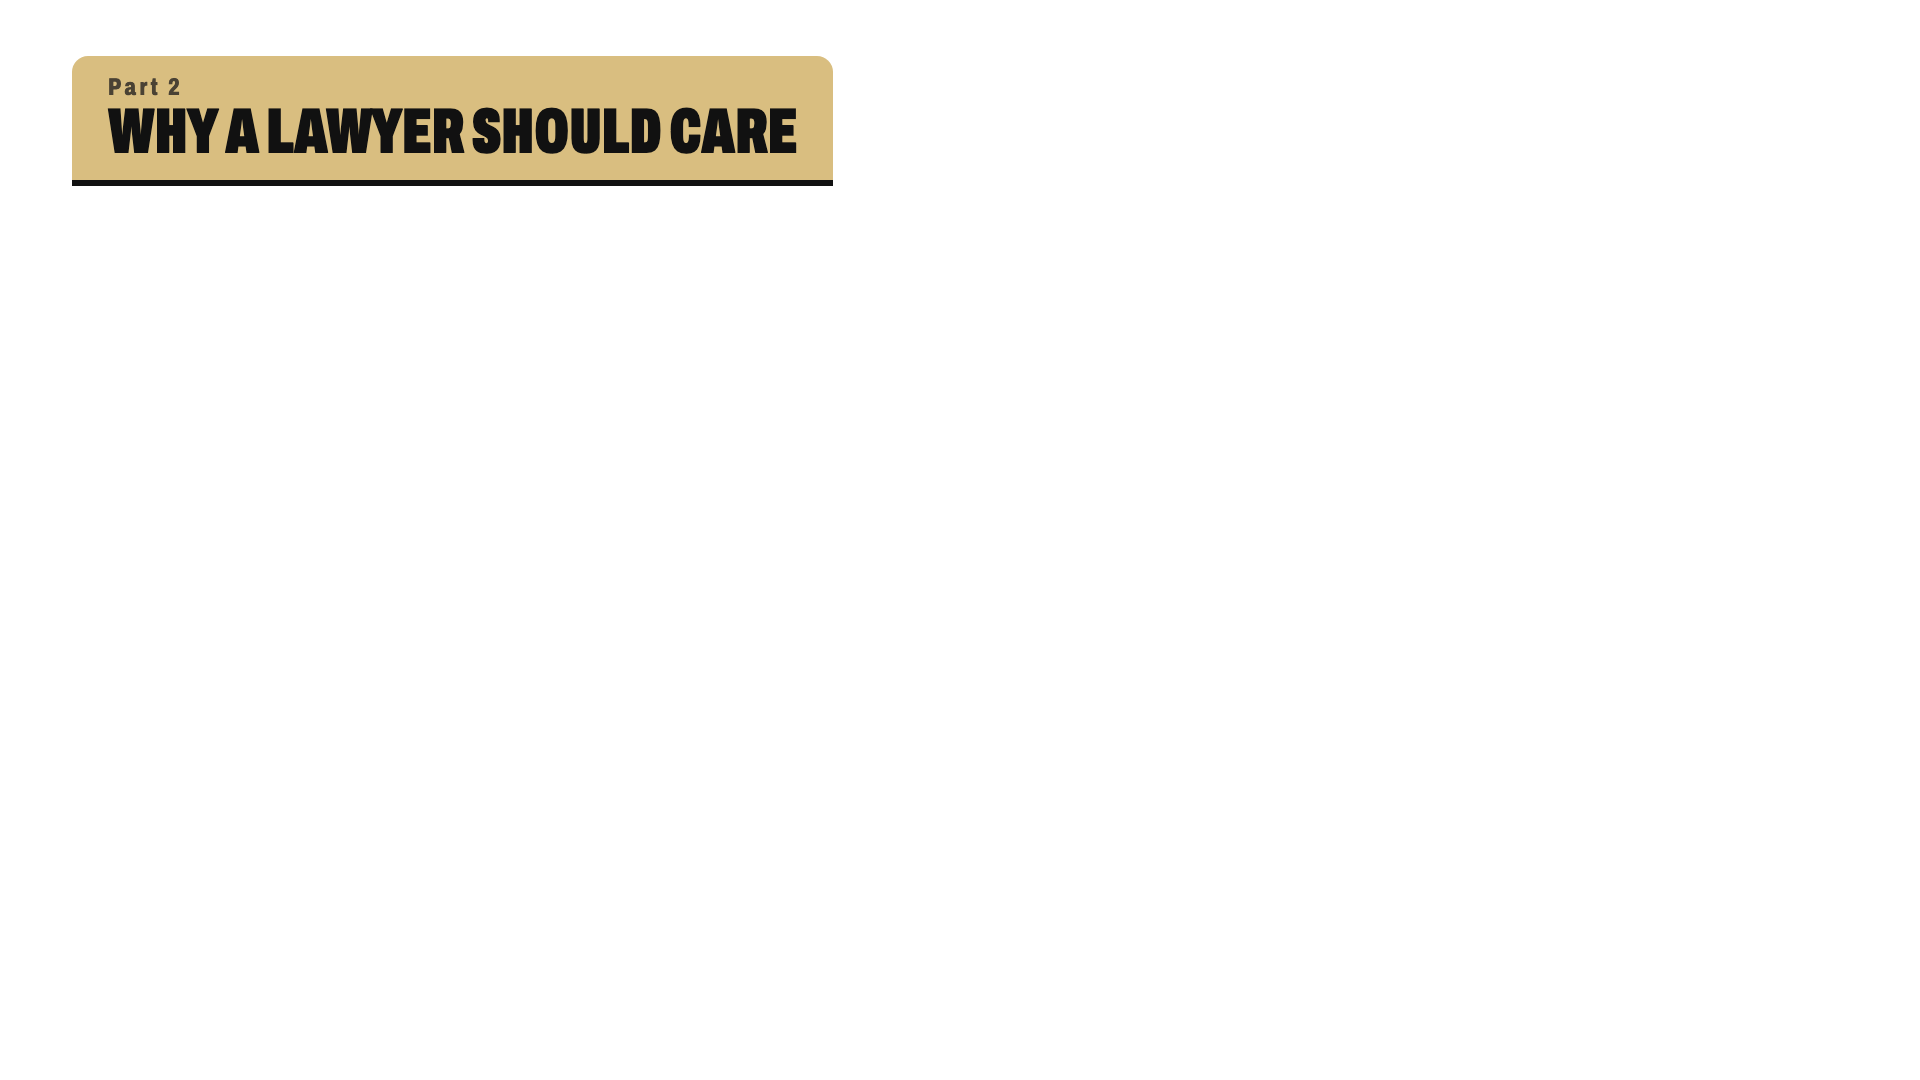
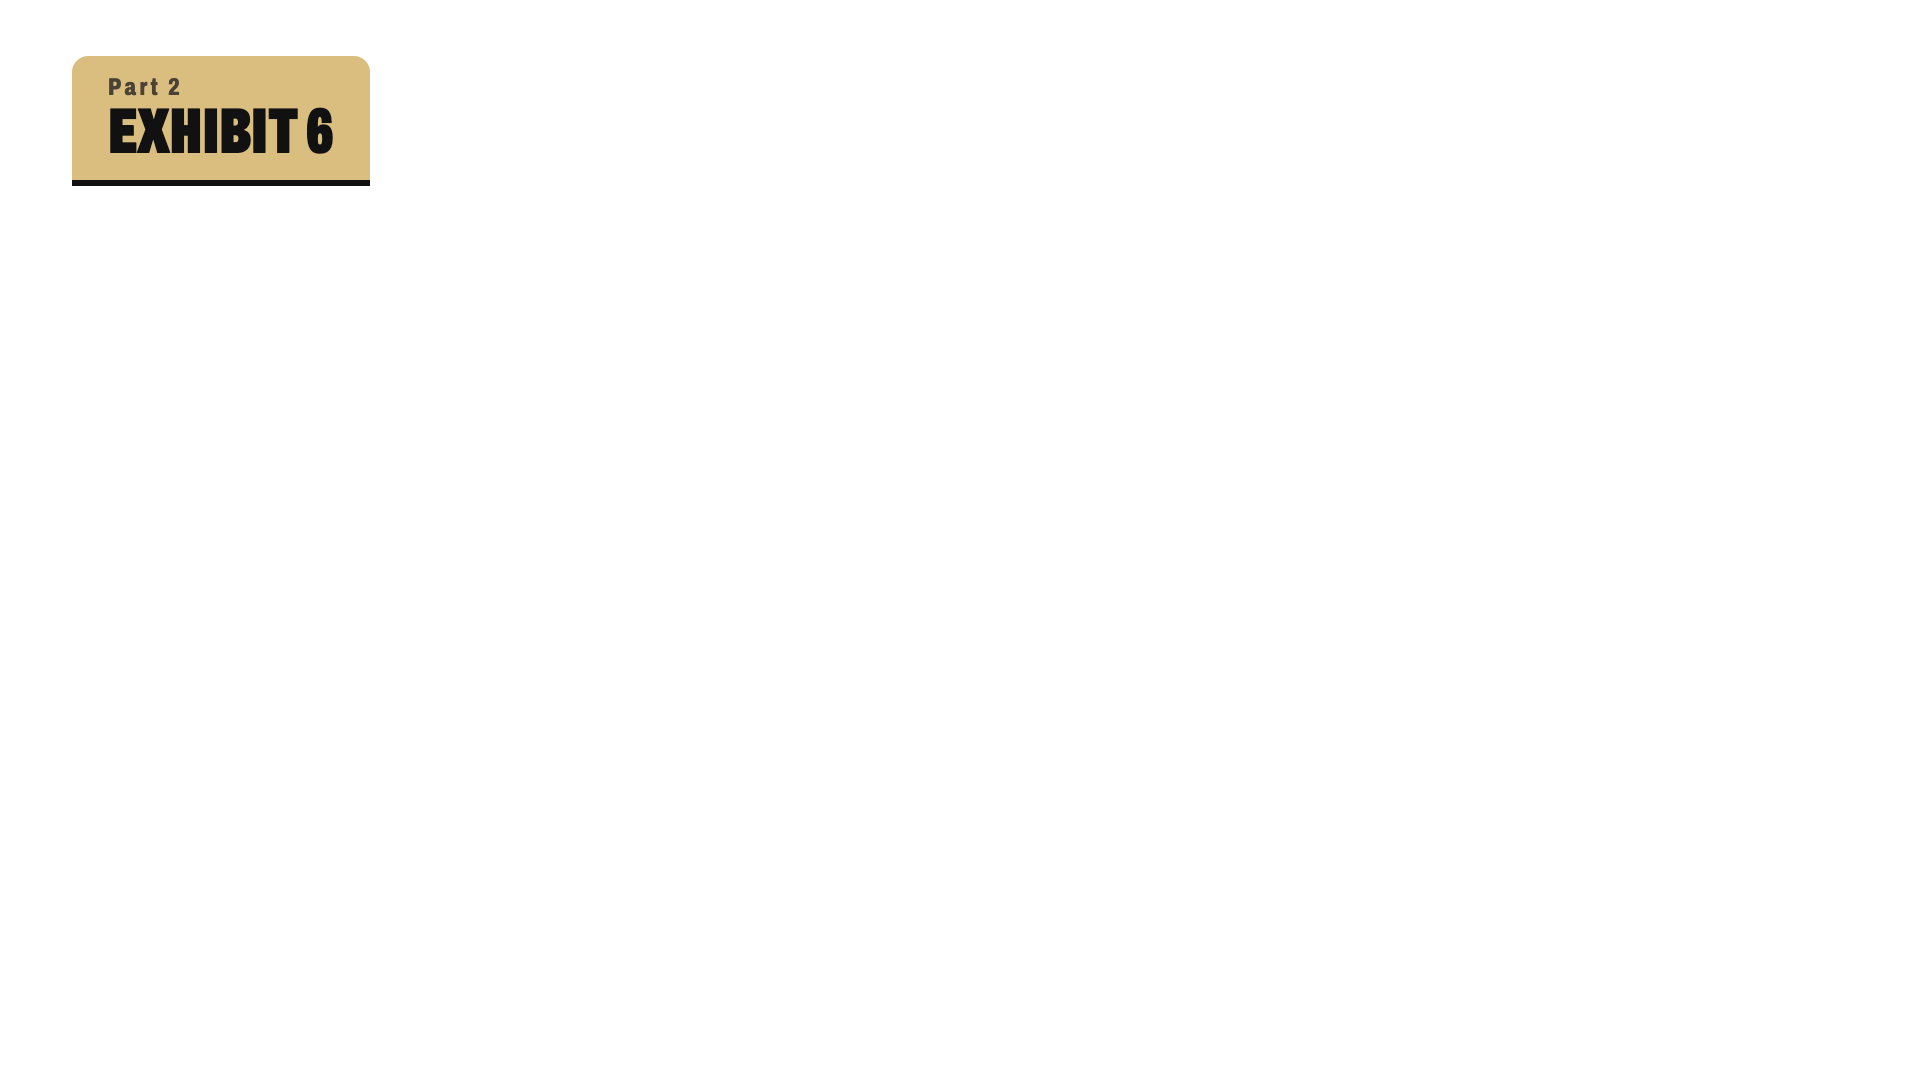
Video: a 3:30 script and shot list with the record of reliance as the hero; six section tabs and the captions rendered

Changed region(s): [[0.0625, 0.0306, 0.4375, 0.1833]]

diff --git a/docs/bli/DEMO_SCRIPT.md b/docs/bli/DEMO_SCRIPT.md
@@ -1,173 +1,76 @@
-# Vouch, BLI demo script (2:30)
+# Vouch, the BLI video: script and shot list
 
-Hard ceiling 3:00; aim for 2:30. **The payoff is on screen by 0:20**: an AI's
-wrong claim, slashed by the check, and a trading agent refused, on-chain.
-Then why lawyers should care, then the Chainlink CRE workflow, then the journal.
+**Length: 3:30** (hard ceiling 5:00). **The hero is the record of reliance**: the
+one page a compliance officer or counsel keeps. The video opens on it, takes it
+apart, and closes on it. Everything on screen is in the Exhibit design
+(design/DESIGN.md).
 
-**Film round A.** Round B is a fallback only if the testnet round cannot run
-by 22 Oct: it does not meet the Chainlink bounty's minimum and reads as
-unfinished. **Which round you film decides two captions.** Everything said aloud below is
-true for both; the captions say which one is on screen.
+**Record after `bash scripts/after_login.sh` and `bash scripts/deploy_web.sh --go`**, so the
+live page shows the testnet round settled by the CRE workflow. If the round
+cannot be settled by 22 Oct, record the same shots from the local round
+(`?feed=feed-local.json`) and use the SDK caption instead of the simulation one
+(see "Captions").
 
-| | Round **A** (after `cre login` and `scripts/cre_round.sh`) | Round **B** (fallback, works today) |
-|---|---|---|
-| Feed | `https://vouch-feed.vercel.app/?journal` after `vercel deploy --prod` | `web/` served locally (`python3 -m http.server -d web 8000`), `http://localhost:8000/?feed=feed-local.json&journal` |
-| Caption, whole video | "Robinhood Chain testnet · Chainlink CRE CLI simulation" | "Local devnet · the CRE workflow's code in Chainlink's SDK test runtime" |
-| 0:45 terminal | `cre/runs/<run>/claim-<id>.log` (the `[USER LOG]` lines) | `bash scripts/sdk_round.sh` output, then `cre workflow build` (the WASM hash) |
-| 0:45 caption | **SIMULATION** | **SDK TEST RUNTIME, NOT A CRE SIMULATION** |
-| The AI's claim | written live by Qwen if the preflight dry run reproduced it; otherwise re-posted from 24 Sep (the page labels it "replayed") | re-posted from 24 Sep, labelled "replayed" |
+## Before recording
 
-**Video assets** (all 1920x1080, from `bash scripts/build_assets.sh`, in
-`docs/assets/video/`): `title.png` (open on it for one second), `end.png`,
-`lower-founder.png` (over the face bubble), `section-1.png` to `section-5.png`
-(a folder tab naming each part, top left, while it runs), and the caption
-labels `caption-simulation.png`, `caption-replayed.png`, `caption-sdk.png`
-(top right, for as long as that footage is on screen). The overlays are
-transparent PNGs. For one claim alone on screen use `?claim=<id>&view=claim`.
+- 1920x1080, browser full screen at 100% zoom, light theme, no bookmarks bar.
+- Tabs, in order:
+  - **A** `https://vouch-feed.vercel.app/?record=TSLA` (the record of reliance)
+  - **B** `/?claim=<hero id>&view=claim` (the AI's wrong-quarter claim; its id is in docs/bli/TESTNET_ROUND.md)
+  - **C** `docs/deck/bli.html` slide 3, or docs/bli/LEGAL.md section 2 on GitHub
+  - **D** a terminal showing `cre/runs/<run>/claim-<hero id>.log` (the `[USER LOG]` lines), and **E** the explorer tab of the hero's verdict transaction
+  - **F** `/?view=journal` (the agent's case files)
+  - **G** `/?feed=feed-kol-real.json&view=journal` (the news checker on real posts)
+- Your face in a small round corner bubble, bottom left, for the first 10 and last 10 seconds.
+- One voice, unhurried. Pause half a second on every stamp.
 
-**Before recording**
+## Overlays (all in `docs/assets/video/`, 1920x1080, from `bash scripts/build_assets.sh`)
 
-- Round A: `bash scripts/cre_round.sh --preflight`, then `bash scripts/cre_round.sh`,
-  then publish (`cd web && vercel deploy --prod`). Round B: `bash scripts/sdk_round.sh`.
-- Have three tabs ready: **A** the feed above with `?journal`, **B** (round A
-  only) the explorer tab of the lead claim's verdict transaction, **C**
-  `docs/bli/LEGAL.md` on GitHub, scrolled to section 6.
-- A terminal with the 0:45 output from the table.
-- 1920x1080, browser full screen. **Your face in a small corner bubble for the
-  first 10 seconds and the last 10** (a real person on camera). One voice, unhurried.
+| File | Use |
+|---|---|
+| `title.png` | the first second, full screen |
+| `section-1.png` to `section-6.png` | transparent; a folder tab naming the part, top left, for its first 3 seconds |
+| `lower-founder.png` | transparent; over the face bubble, 0:01 to 0:06 |
+| `caption-simulation.png` | transparent; top right, whenever testnet CRE output is on screen |
+| `caption-replayed.png` | transparent; top right, whenever the AI's claim is on screen |
+| `caption-sdk.png` | transparent; replaces the simulation caption if you record the local round |
+| `end.png` | the last 4 seconds, full screen |
 
----
+## Shot list and script
 
-## 0:00 to 0:20, the payoff first
+| # | Time | Screen | Overlay | Action | Say |
+|---|---|---|---|---|---|
+| 1 | 0:00 | `title.png` | | hold 1 s | (nothing) |
+| 2 | 0:01 | Tab A, top of the page | section-1, lower-founder, face bubble | slow scroll to "Exhibits refused" | "This is a record of reliance. An AI trading agent read ten claims about Tesla's quarterly report and wanted to trade on all of them. This page shows the three it was allowed to rely on, the seven it was refused, and why." |
+| 3 | 0:20 | Tab A, "Exhibits refused", exhibit 6 row | caption-replayed | point at the red ring and the SLASHED stamp | "Exhibit six. An AI analyst wrote that Tesla's depreciation for Q3 was 1.37 billion dollars." |
+| 4 | 0:30 | Tab B, the claim record | section-2, caption-replayed | point: statement, then the yellow sentence, then the third finding, then the stamp | "Here is the sentence it cited, from Tesla's own 10-Q. The figure is right. The quarter is not: that sentence covers the three months ended June 30. Ringed in red, the words it got wrong. The check slashed it, and its stake went to the readers' fund." |
+| 5 | 0:55 | Tab B, scroll to the chain of custody | | point down the table | "And this is every hand the claim passed through: posted, checked against the filing from SEC EDGAR, slashed, and refused when the agent tried to rely on it." |
+| 6 | 1:10 | Tab C, the four rules | section-3 | point at Reg AC, then 2241 | "Why this matters to lawyers. Regulation AC has a natural person certify the views in research. FINRA Rule 2241 requires that the facts in it are based on reliable information. AI now drafts research, and it can't certify a belief. What a firm can do is show that every number was checked, against what, and by a process it doesn't control." |
+| 7 | 1:40 | Tab D, then Tab E | section-4, caption-simulation | the `[USER LOG]` lines, then the explorer's Checked and Slashed events | "That process is a Chainlink CRE workflow. Here it runs in the CRE CLI simulation on Robinhood Chain testnet: it fetches the filing, runs the check, and writes the verdict through Chainlink's forwarder, with the hash of the filing it read. The contract takes verdicts from nowhere else." |
+| 8 | 2:10 | Tab F, the TSLA case file | section-5 | click **Re-verify this trade**, let the ticks fill | "Every trade keeps its reasons. Re-verify redoes all of it in your browser: every hash, every verdict, every refusal, and the agent's own rules." |
+| 9 | 2:30 | Tab G, the tally, then one real post's record | | open the TSLA case file, then click the exhibit | "The same agent reads real public posts. Claude Haiku read a hundred and thirty about these five companies; the agent staked only on figures a sentence of the filing states, and every model reply is hashed into the record." |
+| 10 | 2:55 | Tab F, click **Print the record of reliance**, then the print dialog's preview | section-6 | scroll to "What this record does not prove" | "Back to the record. It proves what was said, against which filing, and what was done because of it. It does not prove anyone's honest belief, or that the filing is true. That stays the firm's job. This gives it the evidence." |
+| 11 | 3:20 | Tab A, top of the page, face bubble | | hold | "Vouch. If it's wrong, it costs you. If you trade on it, the record shows why." |
+| 12 | 3:26 | `end.png` | | hold 4 s | (nothing) |
 
-**On screen:** tab A. It opens on the AI's claim in the inspector: the claim
-says Q3, the filing's sentence says June, **Slashed**, and "It was refused"
-in the trading-agent box. Point at each as you say it. Caption for this
-segment: **"AI claim: Qwen 2.5's own words from 24 Sep, replayed"** (the page
-labels it "replayed" too).
+## Captions
 
-**Say:**
-
-> An AI analyst wrote that Tesla's depreciation for Q3 was 1.37 billion
-> dollars. Tesla's own filing says that quarter ended in June. Vouch's check,
-> a Chainlink CRE workflow, caught it against the SEC filing, and the AI's
-> stake went to the readers' fund. The trading agent that tried to act on it?
-> Refused, on-chain.
-
-## 0:20 to 0:45, why a lawyer should care
-
-**On screen:** tab C, section 2 (the Reg AC and FINRA 2241 quotes), then
-section 3 (the table).
-
-**Say:**
-
-> You've seen lawyers sanctioned for AI-invented case citations: over a
-> thousand US filings so far. Research has the same problem.
-> Research rules were written for people. Regulation AC has a natural person
-> certify their personal views. FINRA Rule 2241 says the facts in research
-> must be based on reliable information. AI now drafts research, and it can't
-> certify a belief. What a firm can do is show every number was checked
-> against the filing, by a process it doesn't control. That record is Vouch.
-
-## 0:45 to 1:15, the check is a Chainlink CRE workflow
-
-**On screen:** the terminal output from the table, with the caption from the
-table (**SIMULATION**, or **SDK TEST RUNTIME, NOT A CRE SIMULATION**) for the
-whole segment. Round A: the `[USER LOG]` lines (claim, "verdict: SLASH (wrong
-quarter …)", "verdict for claim … written: 0x…"), then tab B, the verdict
-transaction on the Robinhood Chain explorer with the `Checked` and `Slashed`
-events (the explorer shows Chainlink's mock forwarder: that is expected).
-
-**Say (round A):**
-
-> This is the check as a Chainlink Runtime Environment workflow, in the CRE
-> CLI simulation: one node runs the exact workflow, fetches the filing from SEC
-> EDGAR, and writes the verdict through Chainlink's test forwarder, with the
-> hash of the filing it read. On a live network, the forwarder only accepts
-> reports the nodes signed, and the contract checks the workflow's owner, name
-> and pinned id.
-
-**Say (round B):**
-
-> This is the check as a Chainlink Runtime Environment workflow. Here its own
-> code runs in Chainlink's SDK test runtime, on a local chain: it fetches the
-> filing, runs the check, and builds the report the contract takes. The CLI
-> simulation on testnet is the next step. On a live network, the forwarder
-> only accepts reports the nodes signed, and the contract checks the
-> workflow's owner, name and pinned id.
-
-## 1:15 to 1:55, the agent's reasoning trail
-
-**On screen:** back to tab A, scroll to **The agent's journal**. Open the
-entry for the lead claim's stock. Walk the steps: Read, Refused (point at
-the AI's claim in the list), Kept what held, Decided, Committed. Click
-**Re-verify this trade** and let the ticks fill in, ending with the
-on-chain checks. Then click **Print the record of reliance** and hold on the
-page for three seconds: the case sticker, the exhibits relied on and refused,
-the chain of custody, "What this record does not prove".
-
-**Say:**
-
-> The trading agent read every claim about this stock. It tried to trade on
-> all of them, and the desk refused it each time it cited one that failed,
-> naming the claim. What's left are claims that held. Its rules turn those
-> into a position. In this round they're fixed, written rules, so anyone can
-> re-run them; a model can make the call instead, with its exact reply in the
-> record. The whole reasoning, with every verdict and every refusal, is
-> hashed on-chain with the trade. Re-verify redoes all of it in the browser,
-> and the record of reliance is one page counsel can keep.
-
-(Round A only, once the page is deployed: add "and checks it against the
-chain", because the page reads the receipts from Robinhood Chain's RPC. On the
-local round B the page says the on-chain links need the command line; show
-`python -m vouchrh.journal verify` instead if you want that shot.)
-
-## 1:55 to 2:15, what it proves, and what it doesn't
-
-**On screen:** tab C, section 6, both lists.
-
-**Say:**
-
-> We're careful about what this proves. It proves exactly what was said,
-> against which filing, what the check found, and what was done because of it.
-> It doesn't prove anyone's honest belief, or that the filing itself is true.
-> That's still the firm's job. Vouch gives the compliance officer the evidence.
-
-## 2:15 to 2:30, close
-
-**On screen:** the top of the live feed (the KPIs: claims, true, wrong,
-agent trades and refusals), then the end card of the tour: "That's Vouch."
-
-**Say:**
-
-> Vouch. Every claim checked against the SEC filing. Every trade with its
-> receipts. If it's wrong, it costs you. If you trade on it, the record shows why.
-
-Cut.
-
----
+- **SIMULATION** (`caption-simulation.png`): on shot 7, and on any screen showing
+  testnet verdicts. Never say "a live network", "every node agreed" or "no admin
+  key" over simulation footage: in simulation anyone can call the mock forwarder.
+- **REPLAYED** (`caption-replayed.png`): on shots 3 and 4. The page labels the
+  claim "replayed" too.
+- **SDK test runtime** (`caption-sdk.png`): only if recording the local round;
+  then shot 7 shows `bash scripts/sdk_round.sh` output and the script says "the
+  workflow's own code in Chainlink's SDK test runtime", never "simulated on testnet".
 
 ## Things to get right
 
-- **The first sentence is the claim, not an introduction.** No "Hi, I'm…"
-  before 0:20; the face bubble is enough.
-- Say **"Chainlink"** and **"CRE workflow"** out loud; show the CLI output.
-  That is the Chainlink bounty's required evidence (CLI simulation).
-- Say **"reasoning trail"** and click **Re-verify**. That is the RYO bounty's
-  wording.
-- Name **Regulation AC** and **FINRA Rule 2241**, once each, correctly. Don't say Vouch
-  makes a firm "compliant"; say it is evidence for the firm's procedures.
-- Never say "every node", "the network agreed" or "no admin key" over a
-  simulation: on a simulation market anyone can call the mock forwarder.
-- Round B is not a CRE CLI simulation and does not meet the Chainlink bounty's
-  minimum on its own; say "SDK test runtime", never "simulated on testnet".
-  Never show a local-devnet screen and call it testnet.
-- Show only what the code does: the readers' fund on the test market is the
-  deployer standing in; don't name a real fund. The round is run with the
-  default rules, so say "rules". Say "a model can make the decision instead"
-  only as a capability, and say a model decided only if the round was run with
-  `VOUCH_DECIDER=model` and the journal entry shows "Decided by a model".
-- Optional, for the RYO judges (10 s, cut from 1:55 if needed):
-  `?feed=feed-kol.json`, one wrong post refused. Say: "The same agent works as a
-  news checker on posts by market voices. These twenty are written fixtures;
-  a loud post with the wrong quarter moves nothing."
+- The first words are about the record, not an introduction.
+- Say **Chainlink**, **CRE workflow**, **reasoning trail**, **Regulation AC** and
+  **FINRA Rule 2241** aloud, once each. Never say Vouch makes a firm "compliant".
+- Every stamp you point at is on screen long enough to read (one second).
+- Upload to YouTube (public or unlisted). Paste the link into
+  `docs/bli/BUIDL.template.md` and run `python3 scripts/round_docs.py`.
+- For the RYO and Chainlink bounty pages, cut 60-second clips from shots 8 to 9
+  and shot 7 respectively.
